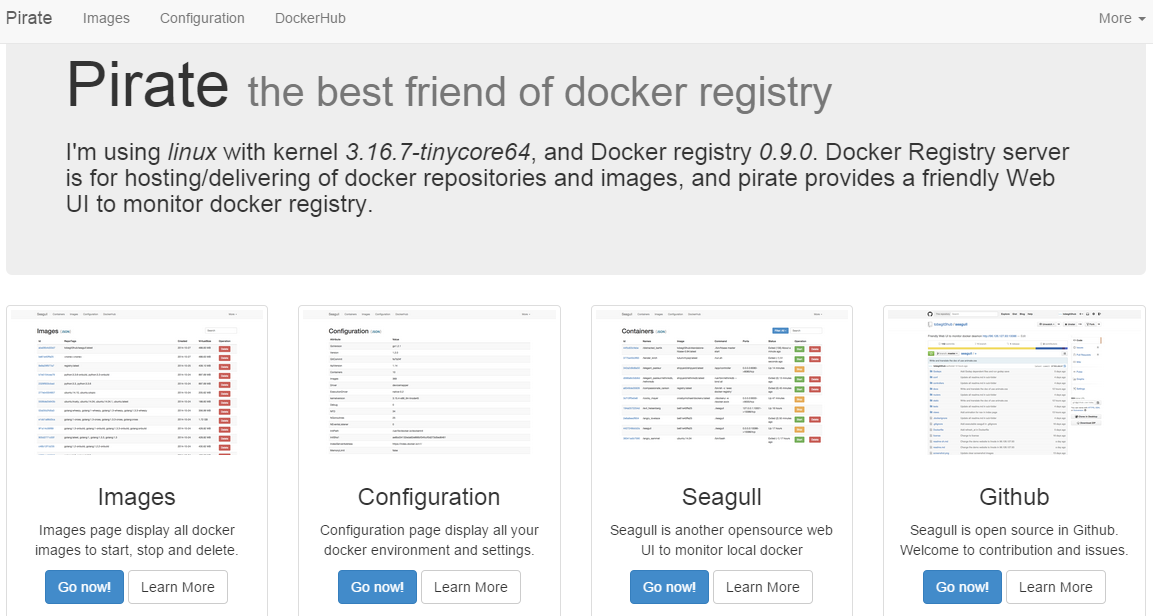
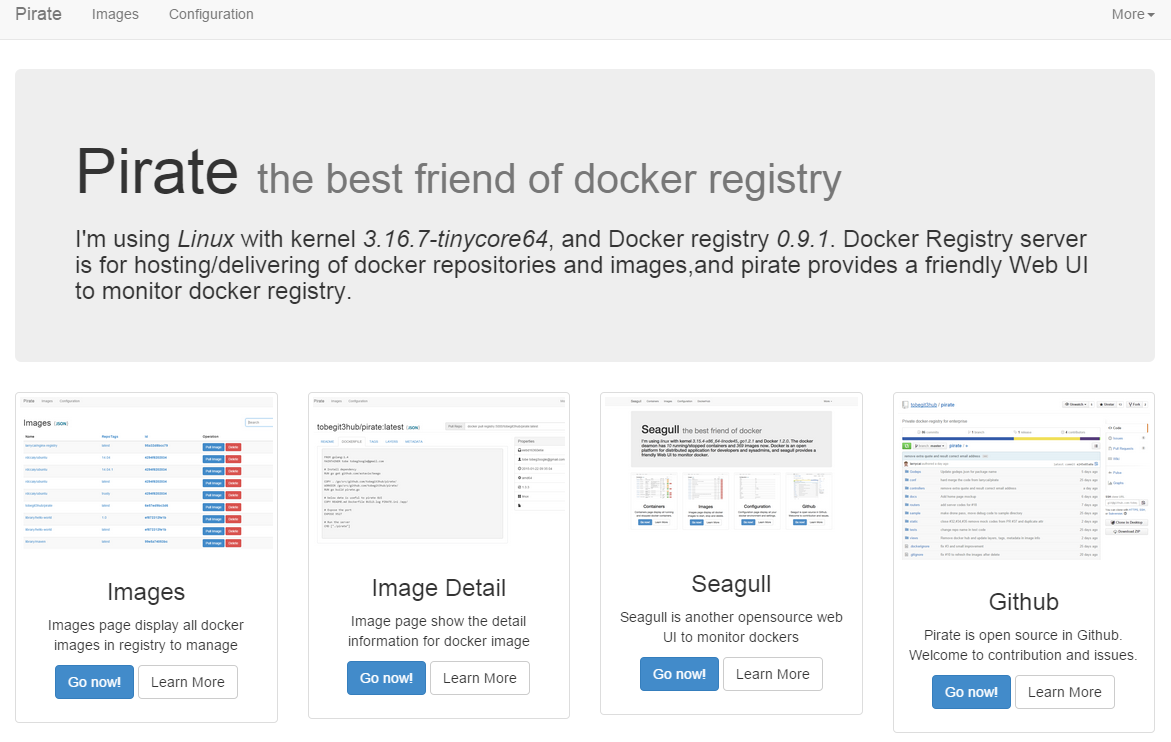
update screenshot and some message

diff --git a/static/html/home.html b/static/html/home.html
@@ -25,7 +25,7 @@
             <div class="caption">
                 <h3>Images</h3>
                 <!-- Example: Images page display all docker images to start, stop and delete. -->
-                <p>Images page display all docker images in registry to browse and delete.</p>
+                <p>Images page display all docker images in registry to manage</p>
                 <p>
                     <a href="/images" class="btn btn-primary">Go now!</a> <a href="https://github.com/tobegit3hub/seagull/blob/master/en/user_guide/docs/2014-10-16-seagull-images-page.md" target="_blank" class="btn btn-default">Learn More</a>
                 </p>
@@ -39,7 +39,7 @@
             <div class="caption">
                 <h3>Image Detail</h3>
                 <!-- Example: Configuration page display all your docker environment and settings. -->
-                <p>Discover the detail information for docker image</p>
+                <p>Image page show the detail information for docker image</p>
                 <p>
                     <a href="/images" class="btn btn-primary">Go now!</a> <a href="https://github.com/tobegit3hub/seagull/blob/master/docs/en/user_guide/2014-10-17-seagull-configuration-page.md" target="_blank" class="btn btn-default">Learn More</a>
                 </p>
